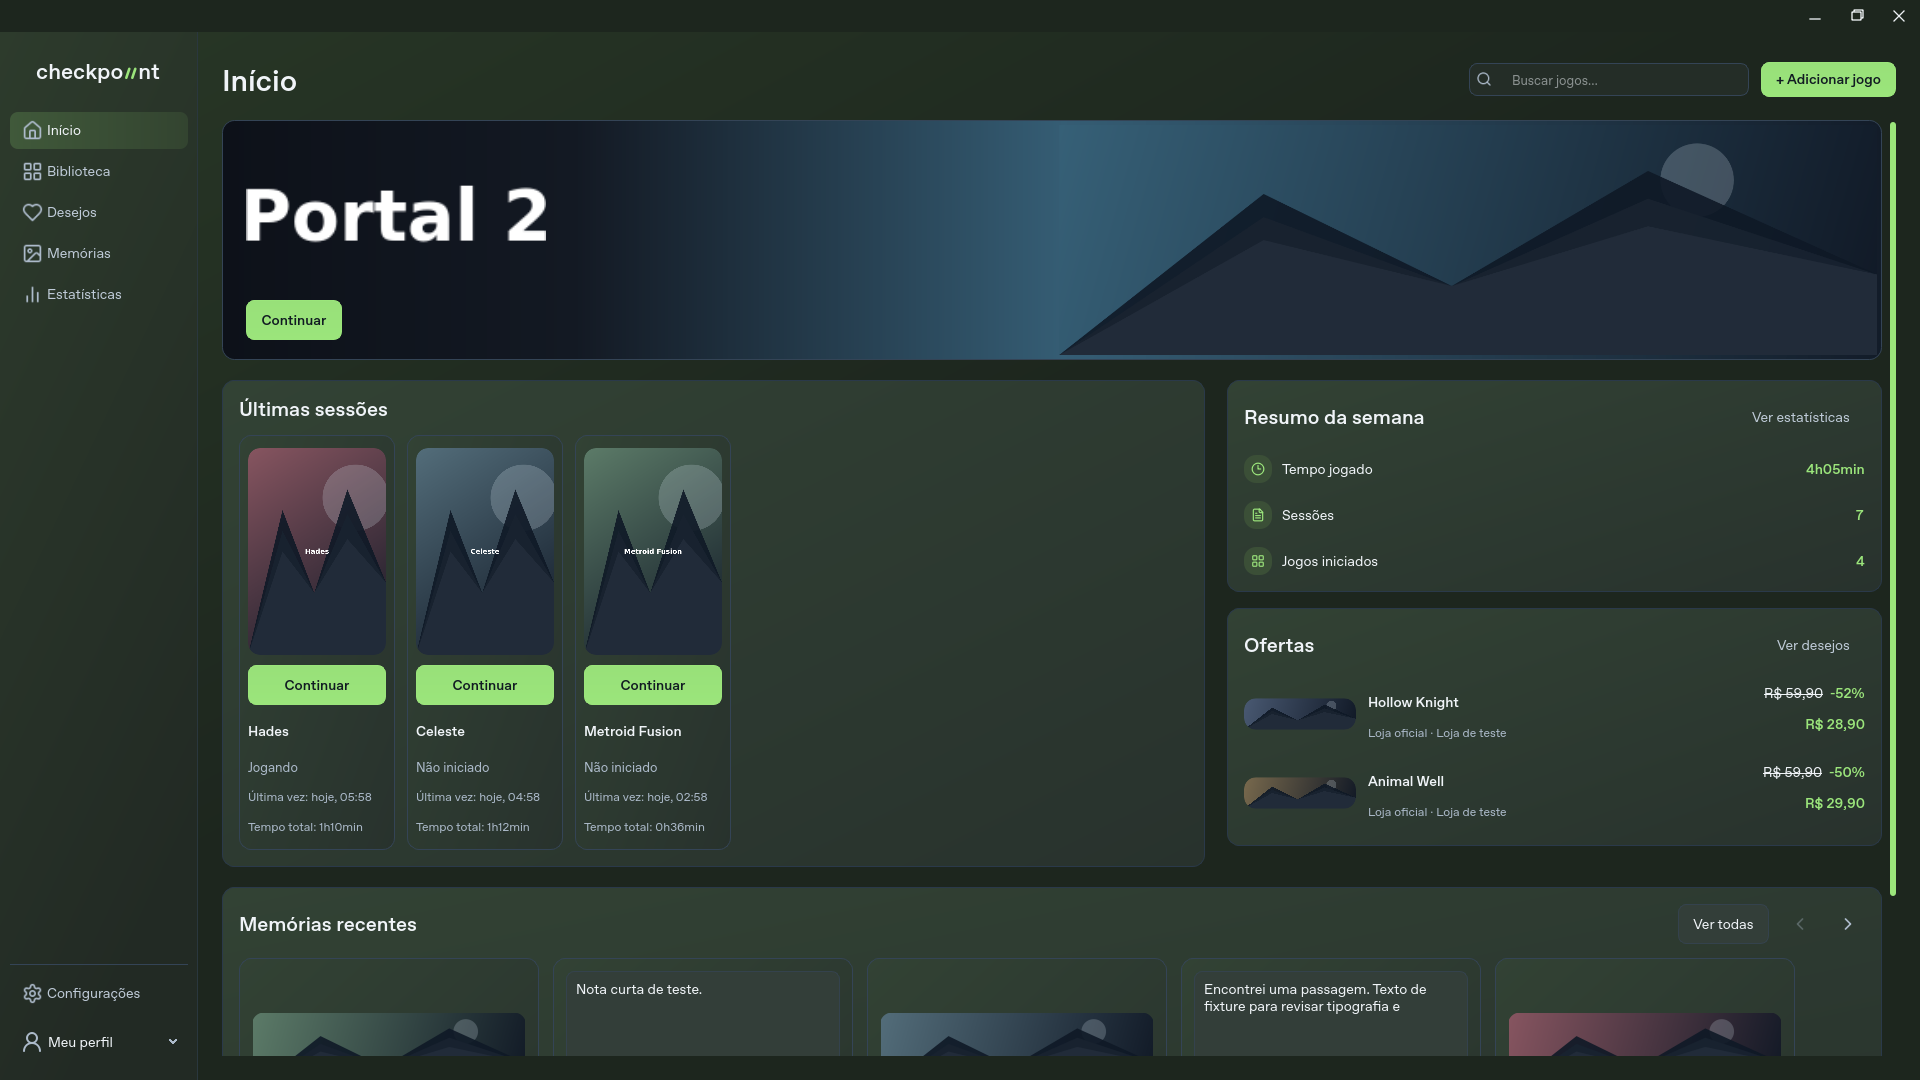
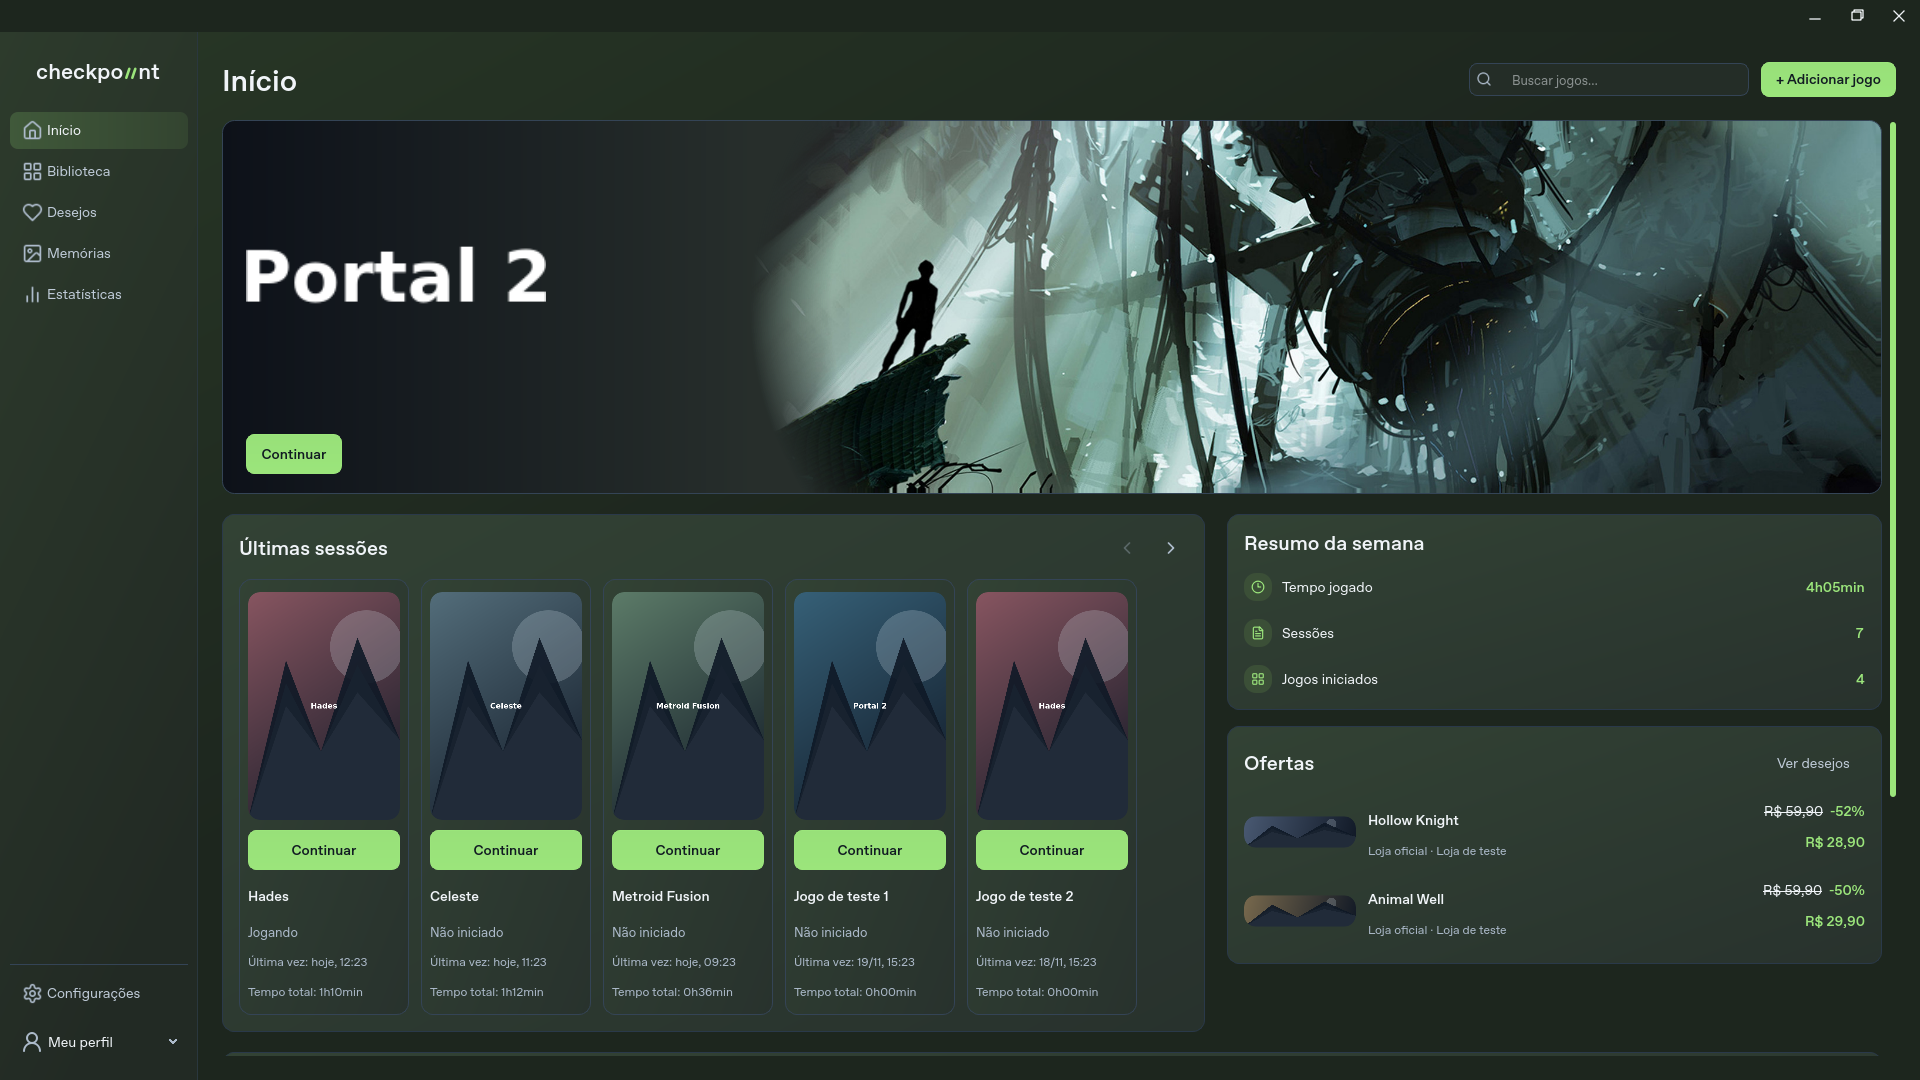
docs: registrar validação e capturas da revisão do Checkpoint

diff --git a/RELATORIO_ESTABILIDADE_0139.md b/RELATORIO_ESTABILIDADE_0139.md
@@ -409,10 +409,33 @@ SQLite, exit 0. Nenhum pacote ou publicação foi criado nesta rodada.
 
 O dono confirmou que o Switch Pro funcionou. O vídeo de 11:01 mostra a
 faixa do último jogo com pouco espaço ocupado pela arte e as miniaturas
-de ofertas reduzidas. A altura do banner agora busca 60% da largura da
+de ofertas reduzidas. A altura do banner agora busca 65% da largura da
 faixa para artes panorâmicas, preservando todo o quadro e limitando a
 altura para arquivos de proporção mais estreita. Últimas sessões tem
 setas alinhadas ao título e cards de 170 px, com arte de até 230 px.
+O teste de renderização conferiu pixels distintos nos quatro cantos de
+três proporções de arte ao redimensionar, maximizar e restaurar a janela,
+tanto em Qt no Linux quanto com o backend Qt para Windows em Wine.
+As capturas com dados de teste mostram a janela em 1000×700, 1280×800
+e maximizada em 1920×1080.
+
+O ponto de quebra de 780 px do conteúdo colocava Resumo da semana e
+Ofertas abaixo das sessões na menor janela do app. A partir de `8d21ecf`,
+a coluna direita permanece ao lado de Últimas sessões, alinhada no topo.
+O carrossel recalcula a quantidade visível sem impor a largura dos cards
+ao restante do Início, e a miniatura da oferta diminui na coluna compacta.
+O teste cobre os dois painéis e o banner antes do limite da área visível,
+sem rolagem horizontal. A janela de 1000×700 mostra dois jogos por vez.
+
+A composição de `2c73ae8` usa um degradê contínuo desde o fundo à
+esquerda até a entrada da arte. A opacidade da arte sobe a partir de uma
+curva elíptica, primeiro no meio e depois no topo e na base. A faixa é
+mais alta e a pintura conserva toda a imagem em sua proporção original.
+Portal 2 foi conferido em três tamanhos com a arte oficial da Steam. O
+teste de pixels conferiu a continuidade da transição e as bordas, e o
+teste com Qt para Windows em Wine conferiu a coluna direita e o banner
+ao reduzir, maximizar e restaurar em três proporções de arte.
+[Arte oficial de Portal 2](https://cdn.akamai.steamstatic.com/steam/apps/620/library_hero.jpg)
 
 Minimizar usa o comando Win32 no quadro integrado. A área clicável dos
 botões usa coordenadas da área cliente. Em Wine, os testes de hit-test
@@ -443,15 +466,74 @@ legada. A reindexação ao voltar ao app lê o catálogo de mídias em conexão
 SQLite de leitura na thread de trabalho. A causa da demora vista pelo
 dono ainda precisa de confirmação com a biblioteca real.
 
+A build Windows x64 do commit `2c73ae8` abriu com o backend Qt para
+Windows em Wine a partir do ZIP extraído. O smoke test percorreu seis
+páginas e confirmou a integridade do SQLite. O ZIP tem 80.101.033 bytes e
+passou pela verificação CRC de 882 arquivos. O SHA-256 do ZIP é
[1 lines of base64/hex data omitted]
+Os 100 testes focados passaram em 19,32 s, e a suíte completa em `97a2207`
+passou com 889 testes em 603,52 s. A suíte de `8d21ecf` passou com 889
+testes em 607,72 s. A execução seguinte em `1ca3d40` foi interrompida por
+falta de espaço no disco durante a extração do ZIP. Cópias de trabalho
+foram removidas e a validação foi repetida com o degradê curvo.
+Os 41 testes focados do contorno curvo e do ajuste de altura passaram
+em 8,38 s.
+O teste de responsividade de Memórias perdia pulsos do temporizador na
+janela fixa de 40 ms sob carga. A revisão do teste aguarda três pulsos
+após a entrada do trabalho e confirma que a decodificação continua
+bloqueada, com prazo de um segundo para os pulsos. A rodada de 49 testes
+de Início e Memórias passou em 16,95 s.
+
+### Reteste solicitado após o ZIP de 2c73ae8
+
+No Início, a faixa ganhou 16 px de folga para a arte em proporções
+panorâmicas e o espaço mínimo da logo em relação ao botão passou de
+8 para 20 px. O resumo semanal perdeu o botão Ver estatísticas, que
+ocupava uma segunda linha na janela estreita. Os cards de Memórias
+recentes mantêm 300 px. O painel ocupa toda a largura útil e centraliza
+os cards quando cabem todos, conforme o ajuste de `e3742f9`. A Biblioteca
+mantém abas e filtros alinhados à esquerda
+nas duas linhas compactas. Criar lista e Gerenciar listas ficaram sem
+reticências. Os três botões do seletor de origem da ROM ficam na mesma
+linha.
+
+Em Estatísticas, o gráfico interno repassa a rolagem vertical à página.
+Os testes enviaram eventos de roda sobre o gráfico em todos os sete
+períodos na janela de 1000×700.
+
+No Windows, a janela principal passou a usar a barra de título do sistema,
+com a cor do tema quando o DWM oferece esse recurso. A área cliente pede
+repintura após a transição. Em Wine, uma barra nativa passou por três
+ciclos de maximizar/restaurar e um de minimizar/restaurar. A corrupção
+vista pelo dono precisa ser conferida no desktop Windows real.
+
+O botão Finalizar aparece enquanto o processo iniciado pelo Checkpoint
+está em sessão. No Windows, envia WM_CLOSE à única janela principal
+identificada para aquele processo. O app aguarda a saída antes de
+encerrar a sessão e iniciar o backup automático. Se o launcher repassar
+o jogo a outro processo, o fechamento continua pela janela do jogo.
+Em Wine, a janela de teste recebeu WM_CLOSE e saiu normalmente antes de
+o registro passar a concluído. O conjunto focado em `b775755` passou com
+139 testes em 20,56 s. A suíte completa de `b775755` passou com 897
+testes em 613,82 s. A revisão final `e3742f9`, que retomou a largura do
+painel de memórias, passou em 51 testes focados de Início e Memórias e
+repetiu com sucesso os 139 testes das áreas alteradas em 33,49 s.
+
+O ZIP Windows x64 de `e3742f9` foi extraído e abriu no backend Qt para Windows em
+Wine. O smoke test percorreu seis páginas e validou a integridade do
+SQLite. Os 882 arquivos passaram pela verificação de CRC. A cópia
+baixada pelo link temporário teve o mesmo SHA-256 do pacote de
+80.107.189 bytes. O SHA-256 é
[1 lines of base64/hex data omitted]
+
 - **6B.** O teste Qt local passou, e a captura do dono permanece a evidência
   do defeito gráfico. A reprodução em desktop Windows com o caminho de
   minimizar/restaurar e, se possível, duas telas/DPI diferentes ainda é
   necessária. A correção do diálogo do item 6A está validada separadamente.
-- **9.** Windows Graphics Capture oferece seleção de uma janela por HWND.
-  A biblioteca candidata windows-capture 2.0.1 tem wheel Windows AMD64 e
-  dependências NumPy/OpenCV. Validar alvo, oclusão, conteúdo, segurança na
-  falha, versão do Windows e empacotamento exige execução nativa. O backend
-  de primeiro plano existente permanece; a gravação de PNG já saiu da GUI.
+- **9.** O app usa Windows Graphics Capture para selecionar uma janela por
+  HWND. O pacote inclui a extensão AMD64. Falta confirmar a aquisição do
+  quadro com o jogo encoberto no Windows do dono, inclusive nos modos de
+  exibição que ele usa.
   [API de captura por HWND](https://learn.microsoft.com/en-us/windows/win32/api/windows.graphics.capture.interop/nf-windows-graphics-capture-interop-igraphicscaptureiteminterop-createforwindow)
 - **14.** A opção de mover a ROM local continua pendente. O perfil atual
   descreve execução por argumentos/extensões, sem contrato sobre onde o

diff --git a/CONTINUITY.md b/CONTINUITY.md
@@ -10,9 +10,17 @@ primeira entrada e ~0,007 s nos retornos após; ensaio Linux isolado. Seletor
 só contém jogos com registros em Memórias. O diálogo Captura pelo controle
 agora alinha Desativar, Gravar comando, Cancelar e Salvar no mesmo rodapé.
 O seletor aceita Switch Pro via SDL3, com o botão dedicado Captura. O teste
-físico no Windows por USB e Bluetooth continua pendente.
-Na rodada seguinte, o dono confirmou o Switch Pro por Bluetooth e pediu
+físico no Windows por USB continua pendente.
+O dono confirmou o Switch Pro por Bluetooth e pediu
 correções de minimizar, Início, Desejos, captura e remoção do modo claro.
+No Início, Resumo da semana e Ofertas ficam ao lado de Últimas sessões
+também na menor janela de 1000×700 lógicos. O banner mantém a arte inteira
+e o degradê do lado esquerdo encontra a imagem em uma curva suave.
+O botão Finalizar na ficha e no Início pede ao Windows o fechamento da
+janela do jogo acompanhado. A sessão termina quando o processo sai. O
+Windows fica responsável por desenhar os controles da janela principal.
+Os filtros compactos, a rolagem em Estatísticas e o seletor de ROM foram
+ajustados na mesma rodada.
 Os resultados e o limite da validação por Wine estão no relatório.
 Restante em andamento no plano e no RELATORIO_ESTABILIDADE_0139.md.
 Gates antigos abaixo são históricos.

diff --git a/PROJECT_STATUS.md b/PROJECT_STATUS.md
@@ -8,6 +8,12 @@ o rodapé horizontal do diálogo Captura pelo controle.
 O suporte SDL3 ao botão dedicado do Switch Pro foi implementado localmente.
 O dono confirmou funcionamento por Bluetooth. Após o teste, foram ajustados
 o Início, Desejos, minimizar, captura por janela e a aparência escura.
+No Início, a janela de 1000×700 mantém Resumo da semana e Ofertas na
+coluna à direita. O banner mantém a arte inteira e usa o degradê do fundo
+até a entrada da imagem, com uma transição curva.
+O botão Finalizar solicita o fechamento da janela do jogo iniciado pelo
+Checkpoint. O app salva a sessão após a saída do processo. A moldura
+nativa e o fechamento do jogo de teste foram conferidos em Wine.
 PLANO_ESTABILIDADE_0139.md e RELATORIO_ESTABILIDADE_0139.md registram andamento.
 
 Revisão local em fix/pos-0139-layout, sem nova publicação: Início sem jogos
